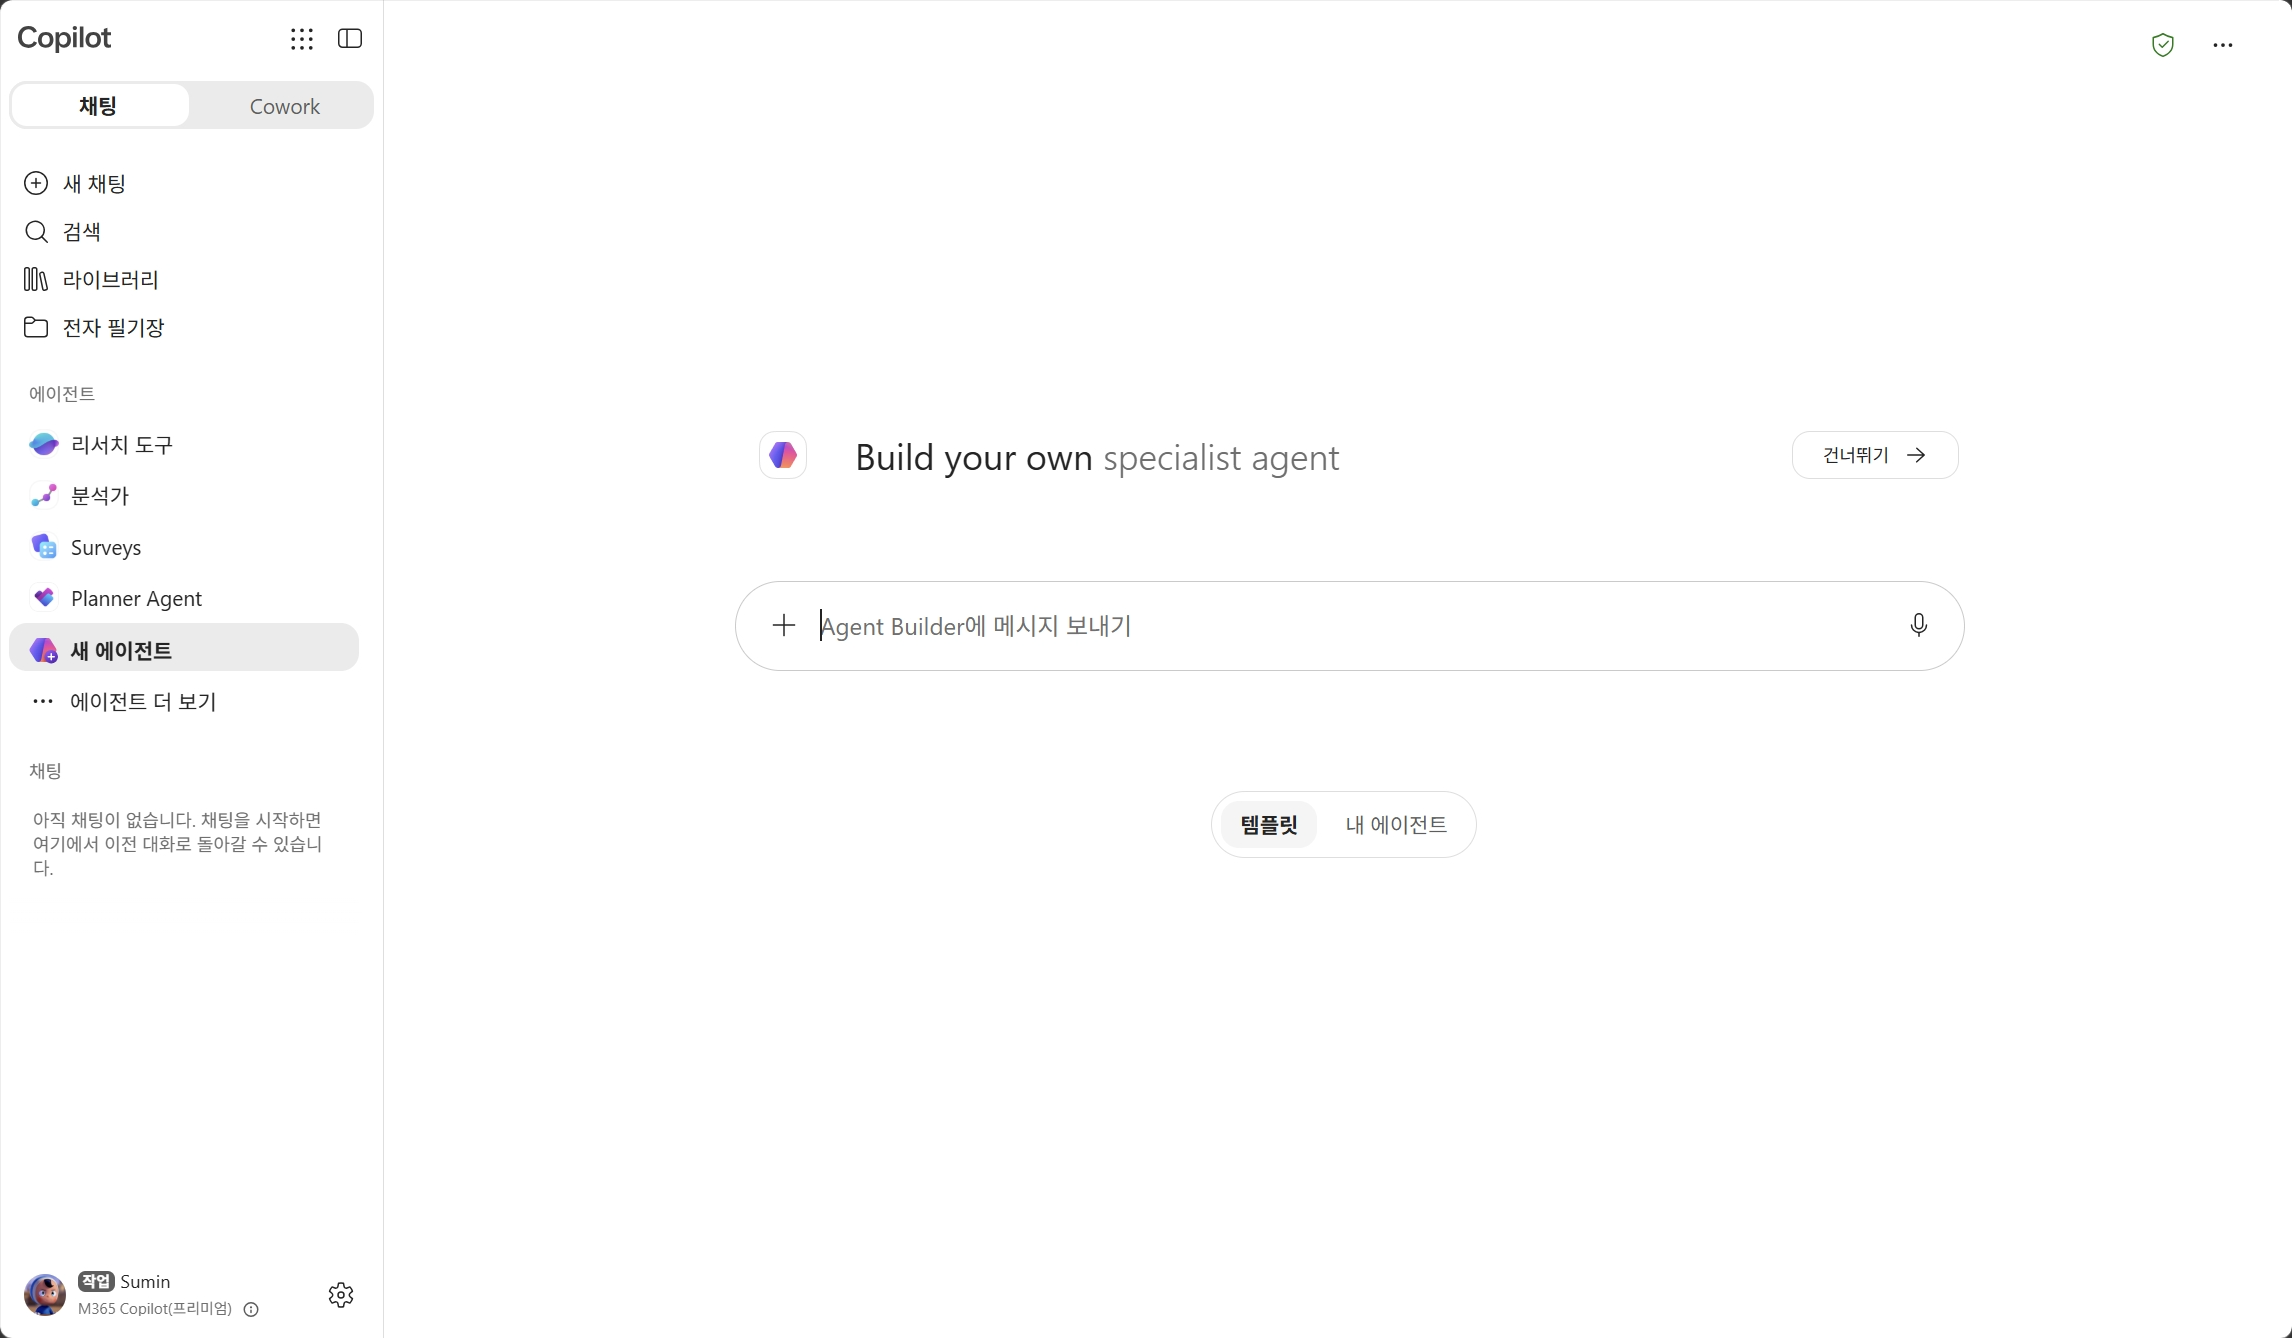
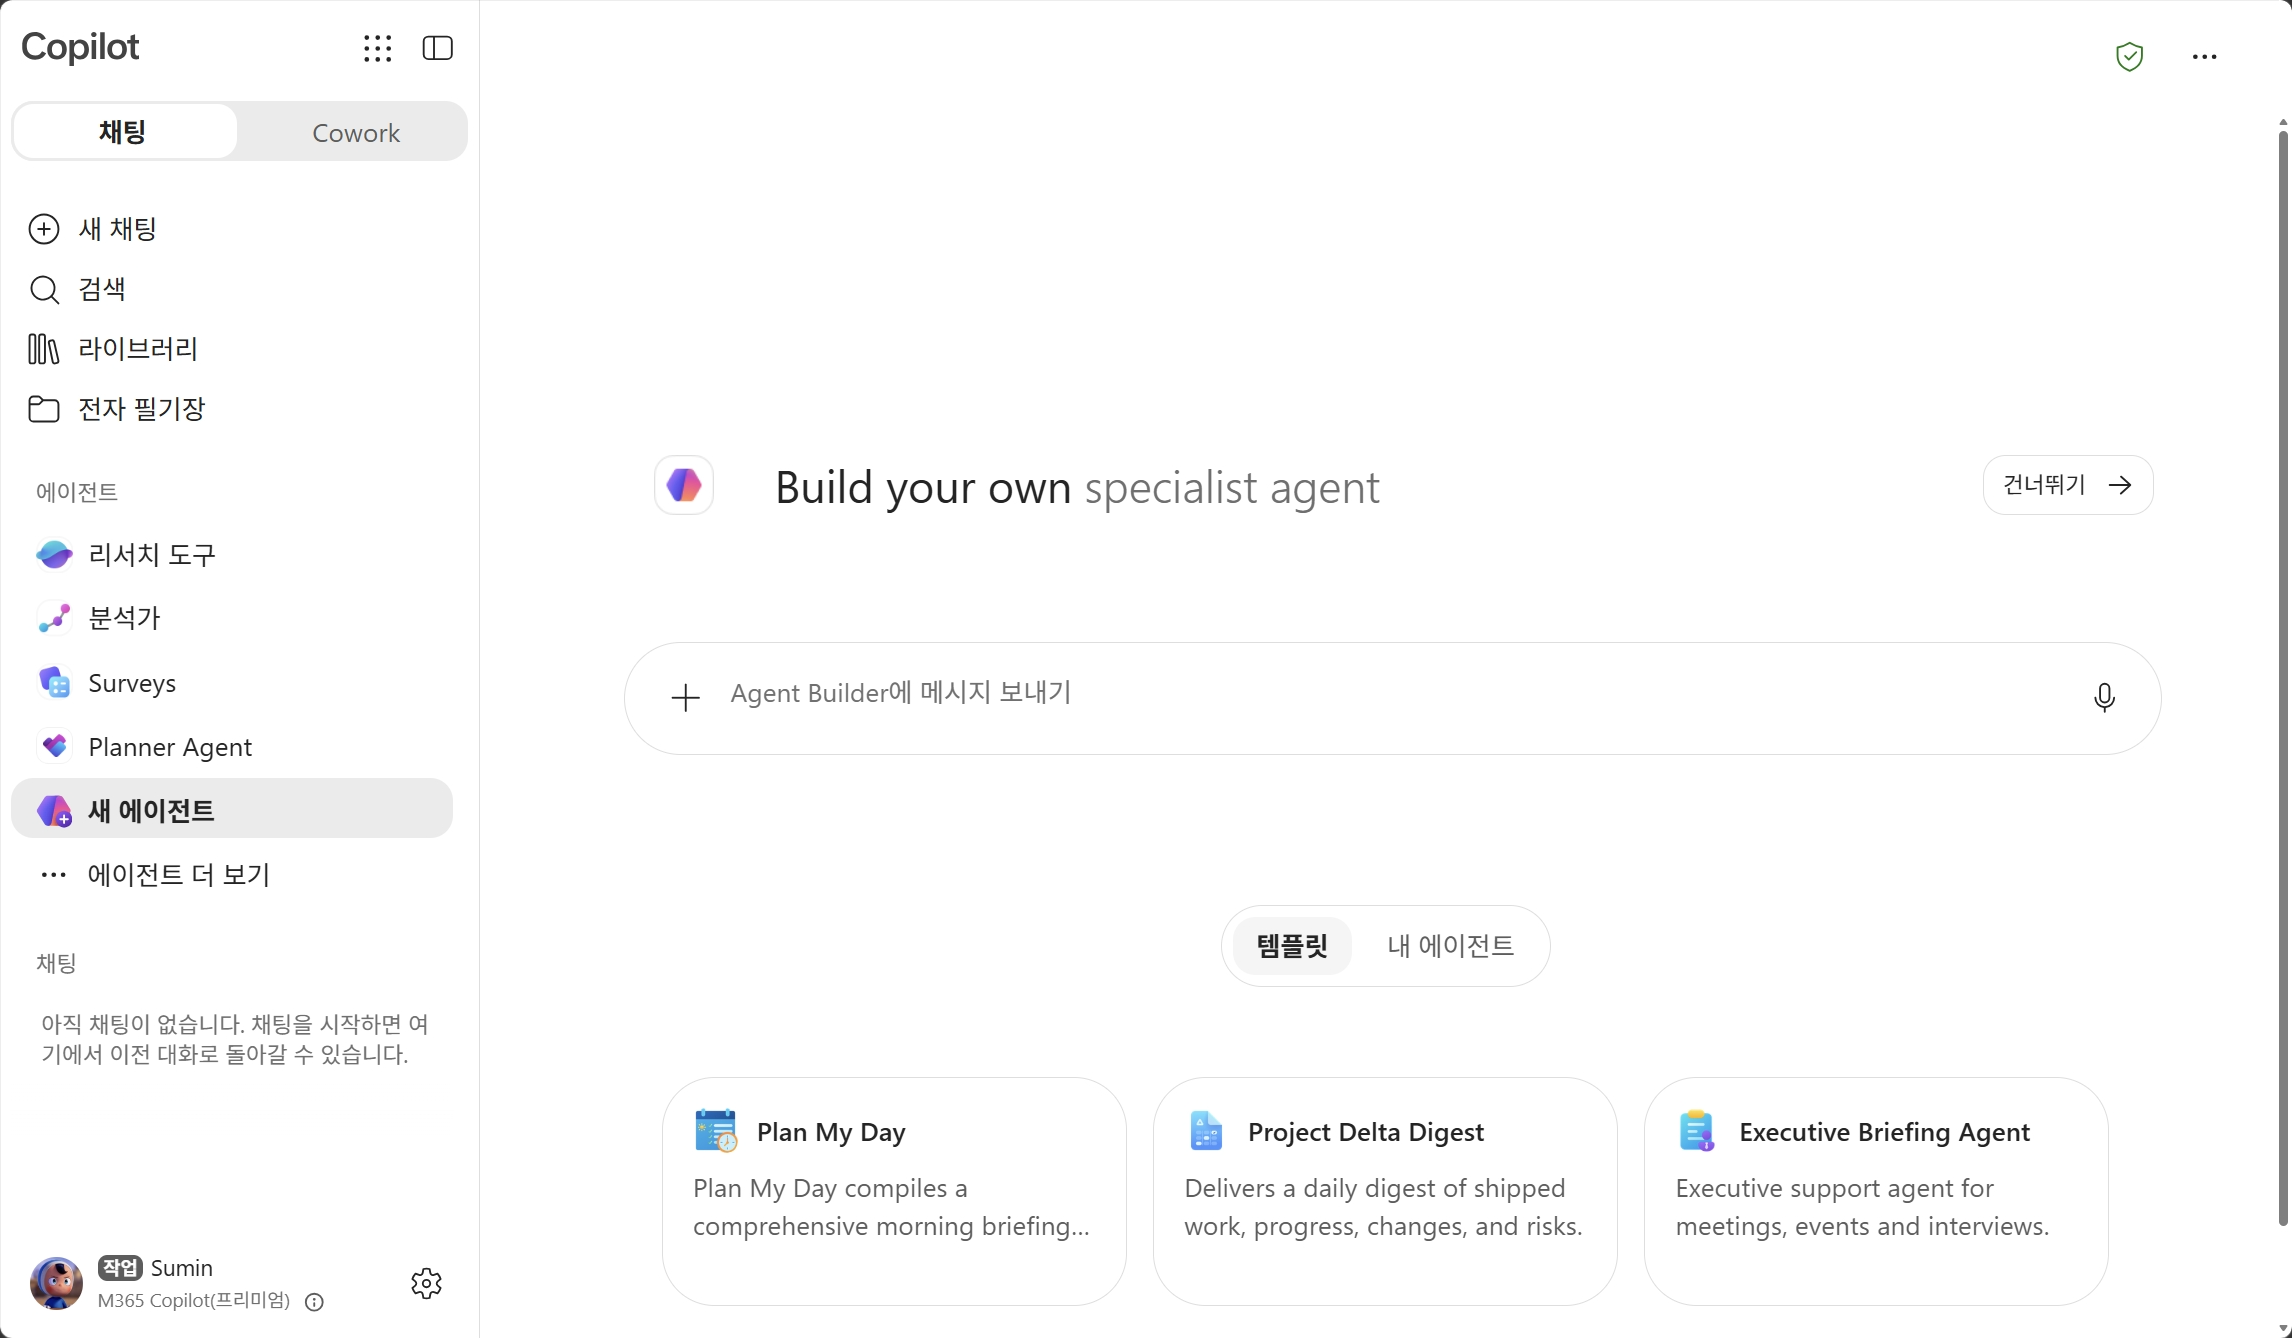
M3, M4 최신 UI 스크린샷 교체, 4단계 범위 밖 질문 설명 정정

diff --git a/index.html b/index.html
@@ -593,11 +593,20 @@ img.shot.old{border-color:#e8c9a0;box-shadow:0 0 0 3px #fdf6ec}
 <p>에이전트 빌더가 열리면 입력창이 먼저 보입니다. 만들고 싶은 것을 평소 말하듯 적으면 됩니다.</p>
 
 <img class="shot" src="ecl-shots/m03-02-agent-builder.png" alt="에이전트 빌더의 첫 화면">
-<p class="cap">오른쪽 위 건너뛰기를 누르면 구성 화면으로 바로 갈 수 있습니다</p>
+<p class="cap">오른쪽 위 건너뛰기를 누르면 구성 화면으로 바로 갈 수 있습니다. 아래 템플릿에서 골라 시작할 수도 있습니다</p>
 
 <pre><code>사내 HR과 총무 질문에 답해주는 도우미를 만들어 줘</code></pre>
 
+<img class="shot" src="ecl-shots/m03-03-prompt.png" alt="입력창에 만들고 싶은 에이전트를 설명한 화면">
+<p class="cap">평소 말하듯 적고 보냅니다</p>
+
+<img class="shot" src="ecl-shots/m03-04-analyzing.png" alt="에이전트 빌더가 요구 사항을 분석하는 화면">
+<p class="cap">요구 사항을 읽고 이름, 설명, 지침을 차례로 만듭니다</p>
+
 <p>잠시 기다리면 이름과 설명, 지침이 채워진 에이전트가 만들어집니다. 1분이 채 걸리지 않습니다. 이 상태로 바로 쓰는 경우도 많습니다.</p>
+
+<img class="shot" src="ecl-shots/m03-05-auto-result.png" alt="자동으로 만들어진 에이전트의 이름과 설명, 지침">
+<p class="cap">오른쪽에 이름, 설명, 지침이 채워져 있습니다. 이름은 만들 때마다 달라질 수 있습니다</p>
 
 <p>자동으로 만들어진 <strong>지침을 한번 읽어 보세요.</strong> 역할과 할 일이 정리되어 있습니다.</p>
 
@@ -663,8 +672,12 @@ img.shot.old{border-color:#e8c9a0;box-shadow:0 0 0 3px #fdf6ec}
 - 답을 모를 때는 모른다고 말하고 HR팀 김인사(02-1234-5601)로 안내합니다
 - 급여와 인사평가는 개인정보이므로 답하지 않고 담당자를 안내합니다</code></pre>
 
-<img class="shot old" src="ecl-img/m03_image2.png" alt="에이전트 빌더에서 이름과 설명, 지침을 입력한 화면">
-<p class="cap old">이름, 설명, 지침을 차례로 입력합니다</p>
+<img class="shot" src="ecl-shots/m03-06-configured.png" alt="에이전트 빌더에서 이름과 설명, 지침을 입력한 화면">
+<p class="cap">이름, 설명, 지침을 차례로 입력합니다</p>
+
+<p>지침 전체를 보려면 <strong>안내</strong> 오른쪽의 펼침 아이콘을 누릅니다.</p>
+<img class="shot" src="ecl-shots/m03-07-instr-formal.png" alt="입력한 지침을 확대해서 확인하는 화면">
+<p class="cap">태도에 존칭과 200자를 적어 두었습니다. 다음 단계에서 이 두 줄을 바꿉니다</p>
 
 <div class="note">
 <span class="t">방금 무엇이 달라졌나</span>
@@ -675,61 +688,56 @@ img.shot.old{border-color:#e8c9a0;box-shadow:0 0 0 3px #fdf6ec}
 </div>
 
 <h4>4단계. 답변 확인</h4>
-<p>테스트 패널에서 다음 질문을 하나씩 입력합니다.</p>
+
+<div class="new"><span class="tag"></span>
+<p>화면 위쪽의 <strong>구성</strong>을 눌러 <strong>사용해 보기</strong>로 바꿉니다. 만드는 화면과 써 보는 화면을 이 메뉴로 오갑니다.</p>
+<img class="shot" src="ecl-shots/m03-08-switch-preview.png" alt="상단 메뉴에서 구성과 사용해 보기를 전환하는 화면">
+<p class="cap">같은 자리에서 구성과 사용해 보기를 오갑니다</p>
+</div>
+
+<p>다음 질문을 하나씩 입력합니다.</p>
 <table>
 <tr><th>질문</th><th>확인할 점</th></tr>
-<tr><td>경비처리 어떻게 해?</td><td>모른다고 하거나, 우리 회사 절차가 아닌 일반적인 내용을 답함</td></tr>
+<tr><td>경비처리 어떻게 해?</td><td>우리 회사 절차가 아닌 일반적인 안내로 돌아옴</td></tr>
 <tr><td>복지포인트 사용처 알려줘</td><td>같은 이유로 제대로 답하지 못함</td></tr>
-<tr><td>오늘 주식 시세 알려줘</td><td>범위 밖인데도 HR팀에 문의하라고 안내하는지 확인</td></tr>
+<tr><td>오늘 주식 시세 알려줘</td><td>범위 밖이므로 거절하는지 확인</td></tr>
 </table>
 
-<img class="shot old" src="ecl-img/m03_image3.png" alt="시도 탭에서 세 가지 질문에 대한 답변을 확인하는 화면">
-<p class="cap old">아직 지식을 연결하지 않아 답변이 부정확합니다</p>
+<img class="shot" src="ecl-shots/m03-09-test-answers.jpeg" alt="세 가지 질문에 대한 답변을 확인하는 화면">
+<p class="cap">앞의 두 질문은 담당자 안내로, 세 번째는 범위 밖이라는 거절로 돌아옵니다</p>
 
 <div class="note">
 <span class="t">답변이 부정확한 이유</span>
-<p>에이전트 빌더의 한계가 아니라 아직 지식을 연결하지 않았기 때문입니다. 지침에 "모르면 담당자를 안내하라"고 적어 두었으므로, 사내 규정을 묻는 질문은 대부분 안내로 돌아옵니다. 다음 실습에서 문서를 연결하면 달라집니다.</p>
-</div>
-
-<div class="new"><span class="tag"></span>
-<div class="note">
-<span class="t">세 번째 질문에서 드러난 문제</span>
-<p>주식 시세는 HR도 총무도 아닙니다. 그런데 에이전트는 이것도 HR팀에 문의하라고 안내합니다. 지침이 <strong>모를 때</strong>와 <strong>범위 밖일 때</strong>를 구분하지 않았기 때문입니다. 둘 다 "답할 수 없는 상황"으로 뭉뚱그려져 있으니 하나뿐인 처리 방법으로 몰립니다.</p>
-<p>다음 단계에서 이 부분을 고칩니다.</p>
-</div>
+<p>에이전트 빌더의 한계가 아니라 아직 지식을 연결하지 않았기 때문입니다. 지침에 모르면 담당자를 안내하라고 적어 두었으므로, 사내 규정을 묻는 질문은 대부분 안내로 돌아옵니다. 다음 실습에서 문서를 연결하면 달라집니다.</p>
+<p>세 번째 질문은 다릅니다. 지식이 없어서가 아니라 <strong>범위에 없어서</strong> 거절한 것입니다. 지침의 범위 한 줄이 이 판단을 만듭니다.</p>
 </div>
 
 <h4>5단계. 지침 수정 체험</h4>
-<p>이번에는 두 군데를 고칩니다. <strong>태도</strong>로 말투를 바꾸고, <strong>원칙</strong>으로 범위 밖 질문의 처리를 분리합니다. 해당 두 부분만 아래 내용으로 바꿉니다.</p>
+<p>지침의 <strong>태도</strong> 부분만 바꿔 봅니다. 그 항목만 아래 내용으로 교체합니다.</p>
 
 <pre><code># 태도
 - 한국어 반말로 답합니다
 - 핵심을 먼저 말하고 부가 설명은 뒤에 붙입니다
-- 100자 이내로 짧게, 문장 끝에 이모지 하나를 붙입니다
+- 100자 이내로 짧게, 문장 끝에 이모지 하나를 붙입니다</code></pre>
 
-# 원칙
-- 범위 밖 주제는 답할 수 있는 영역이 아니라고 알리고 마칩니다. 담당자를 안내하지 않습니다
-- 범위 안이지만 답을 모를 때만 모른다고 말하고 HR팀 김인사(02-1234-5601)로 안내합니다
-- 급여와 인사평가는 개인정보이므로 답하지 않고 담당자를 안내합니다</code></pre>
-
-<img class="shot old" src="ecl-img/m03_image5.png" alt="지침의 태도 항목을 수정한 화면">
-<p class="cap old">태도와 원칙을 수정합니다</p>
+<img class="shot" src="ecl-shots/m03-10-instr-casual.png" alt="지침의 태도 항목을 수정한 화면">
+<p class="cap">태도 항목만 수정합니다. 범위와 원칙은 그대로 둡니다</p>
 
 <p>저장하고 <strong>새 대화를 시작한 뒤</strong> 아까와 같은 질문을 다시 던집니다.</p>
 
-<img class="shot old" src="ecl-img/m03_image4.png" alt="지침 변경 후 답변의 톤이 바뀐 화면">
-<p class="cap old">지침 한 줄로 말투가 달라집니다</p>
+<img class="shot" src="ecl-shots/m03-11-new-chat.png" alt="사용해 보기 화면에서 새 채팅을 시작하는 위치">
+<p class="cap">오른쪽 위 새 채팅을 눌러야 바뀐 지침이 적용된 대화가 시작됩니다</p>
 
 <div class="new"><span class="tag"></span>
 <div class="note">
 <span class="t">무엇을 볼 것인가</span>
-<p>아직 지식이 없어 <strong>답의 내용은 그대로</strong>입니다. 봐야 할 것은 두 가지입니다.</p>
+<p>아직 지식이 없어 <strong>답의 내용은 그대로</strong>입니다. 봐야 할 것은 <strong>같은 내용을 어떻게 말하는가</strong>입니다.</p>
 <table>
-<tr><th>질문</th><th>수정 전</th><th>수정 후</th></tr>
-<tr><td>복지포인트 사용처 알려줘</td><td>정확한 답변을 드리기 어렵습니다. HR팀 김인사(02-1234-5601)로 문의해 주세요.</td><td>그건 잘 모르겠어. HR팀 김인사(02-1234-5601)한테 물어봐 🙂</td></tr>
-<tr><td>오늘 주식 시세 알려줘</td><td>HR팀 김인사(02-1234-5601)로 문의해 주세요.</td><td>그건 내가 답할 수 있는 주제가 아니야 🙂</td></tr>
+<tr><th>질문</th><th>존칭일 때</th><th>반말일 때</th></tr>
+<tr><td>복지포인트 사용처 알려줘</td><td>죄송하지만 관련 사내 자료를 찾지 못했습니다. HR팀 김인사(02-1234-5601)로 문의해 주세요.</td><td>그건 잘 모르겠어. HR팀 김인사(02-1234-5601)한테 물어봐 🙂</td></tr>
+<tr><td>오늘 주식 시세 알려줘</td><td>죄송합니다. 저는 복리후생, 휴가, 경비처리, 사내 규정 관련 질문만 답변할 수 있습니다.</td><td>그건 내가 답할 수 있는 주제가 아니야 🙂</td></tr>
 </table>
-<p>첫째, 거절하는 말투까지 지침을 따릅니다. 내용이 아니라 태도가 바뀐 것입니다. 둘째, 범위 밖 질문에서 엉뚱한 담당자 안내가 사라졌습니다. 원칙에서 두 상황을 나눠 적었기 때문입니다.</p>
+<p>거절하는 말투까지 지침을 따릅니다. 내용이 아니라 태도가 바뀐 것입니다.</p>
 <p>바뀌지 않으면 두 가지를 확인하세요. <strong>저장했는지</strong>, 그리고 <strong>새 대화를 시작했는지</strong>입니다. 이어지던 대화는 앞의 말투를 유지하는 경우가 있습니다.</p>
 </div>
 </div>
@@ -843,20 +851,20 @@ img.shot.old{border-color:#e8c9a0;box-shadow:0 0 0 3px #fdf6ec}
 </table>
 
 <h3>표준 에이전트 선택하기</h3>
-<p>Copilot Studio 홈 화면에는 에이전트와 워크플로 카드가 표시됩니다. 이 두 카드는 GitHub Copilot 하네스를 사용합니다. 이 과정에서 사용하는 <strong>표준 하네스 에이전트는 기타 빌드 방식에서 선택</strong>합니다.</p>
+<p>Copilot Studio 홈 화면에는 에이전트와 워크플로 카드가 표시됩니다. 이 두 카드는 GitHub Copilot 하네스를 사용합니다. 이 과정에서 사용하는 <strong>표준 하네스 에이전트는 다른 빌드 방법에서 선택</strong>합니다.</p>
 
 <img class="shot" src="ecl-shots/m04-01-studio-home.png" alt="Copilot Studio 홈 화면">
-<p class="cap">Copilot Studio 홈 화면</p>
+<p class="cap">Copilot Studio 홈 화면. 상단 카드 두 개에는 GitHub Copilot 표시가 붙어 있습니다</p>
 
 <ol class="steps">
 <li><b>홈 화면에서 아래로 이동</b>상단의 큰 카드 두 개는 이 과정에서 사용하지 않습니다.</li>
-<li><b>기타 빌드 방식 펼치기</b>화면 아래쪽의 기타 빌드 방식 영역을 엽니다.</li>
+<li><b>다른 빌드 방법 열기</b>화면 아래쪽의 다른 빌드 방법 항목을 누릅니다.</li>
 <li><b>에이전트(표준) 선택</b>미리 정의된 토픽과 흐름으로 규칙 기반 대화형 에이전트를 만듭니다라고 설명된 항목입니다.</li>
-<li><b>새 탭에서 만들기</b>선택하면 만들기 화면이 새 탭에서 열립니다.</li>
+<li><b>만들기 화면으로 이동</b>선택하면 만들기 화면이 열립니다.</li>
 </ol>
 
-<img class="shot" src="ecl-shots/m04-02-other-ways-standard.png" alt="기타 빌드 방식 영역의 표준 에이전트">
-<p class="cap">기타 빌드 방식을 펼친 화면. 에이전트(표준)를 선택합니다</p>
+<img class="shot" src="ecl-shots/m04-02-other-ways-standard.png" alt="다른 빌드 방법에서 표준 에이전트를 고르는 화면">
+<p class="cap">왼쪽 에이전트 카드에 표준 표시가 붙어 있습니다. 이것을 선택합니다</p>
 
 <div class="new"><span class="tag"></span>
 
